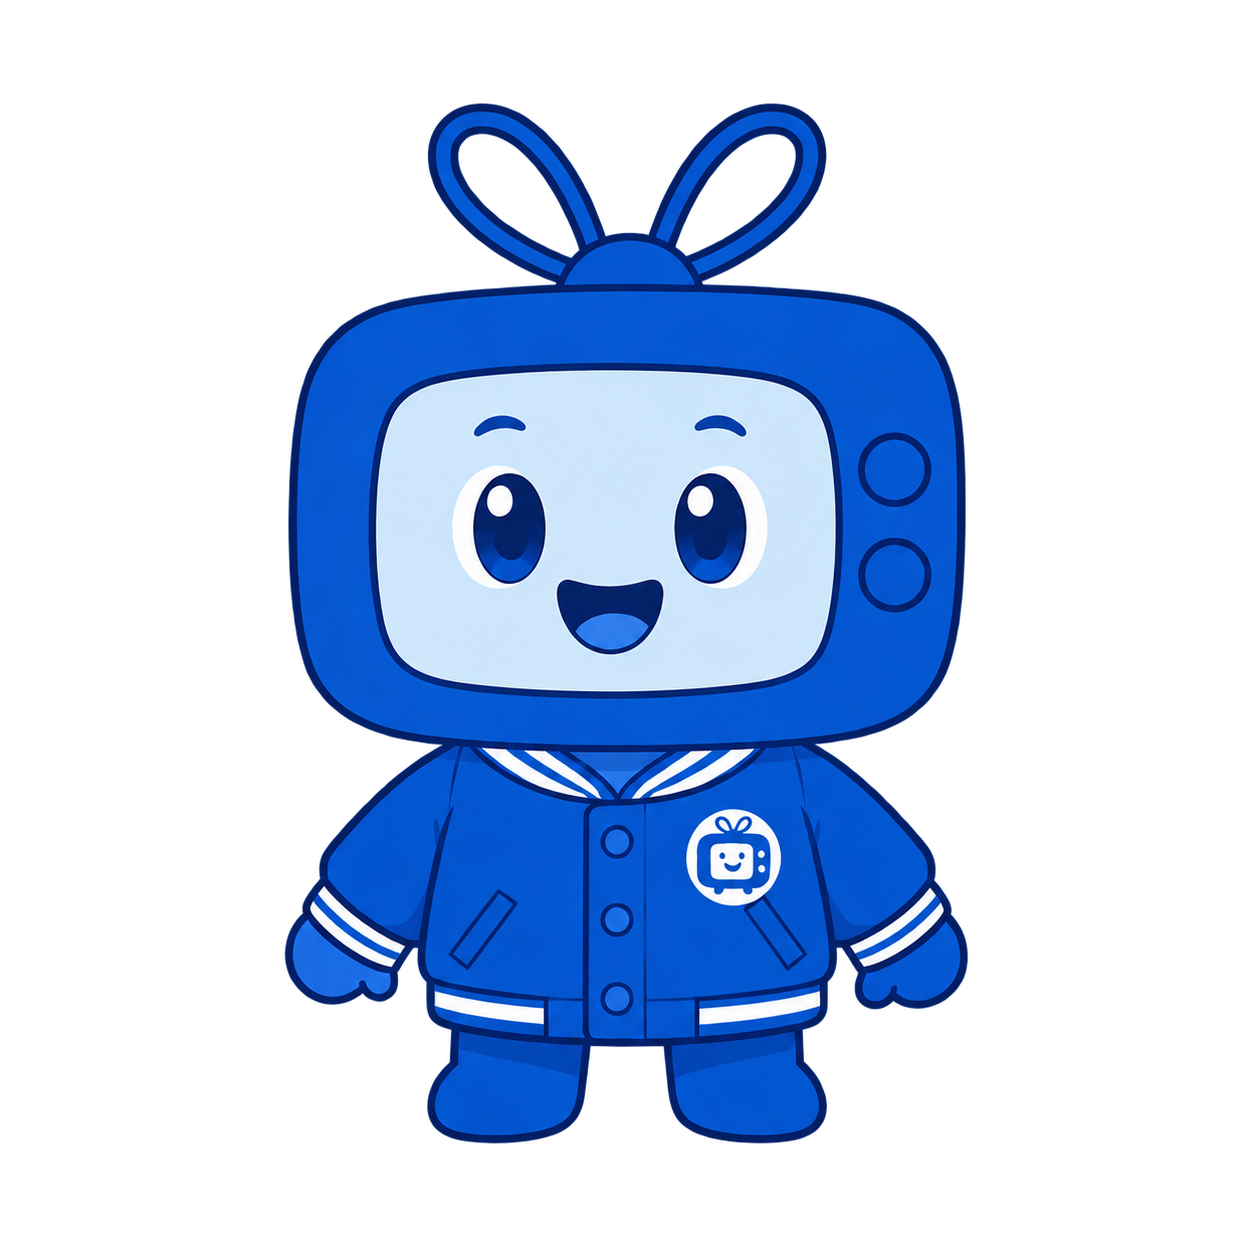
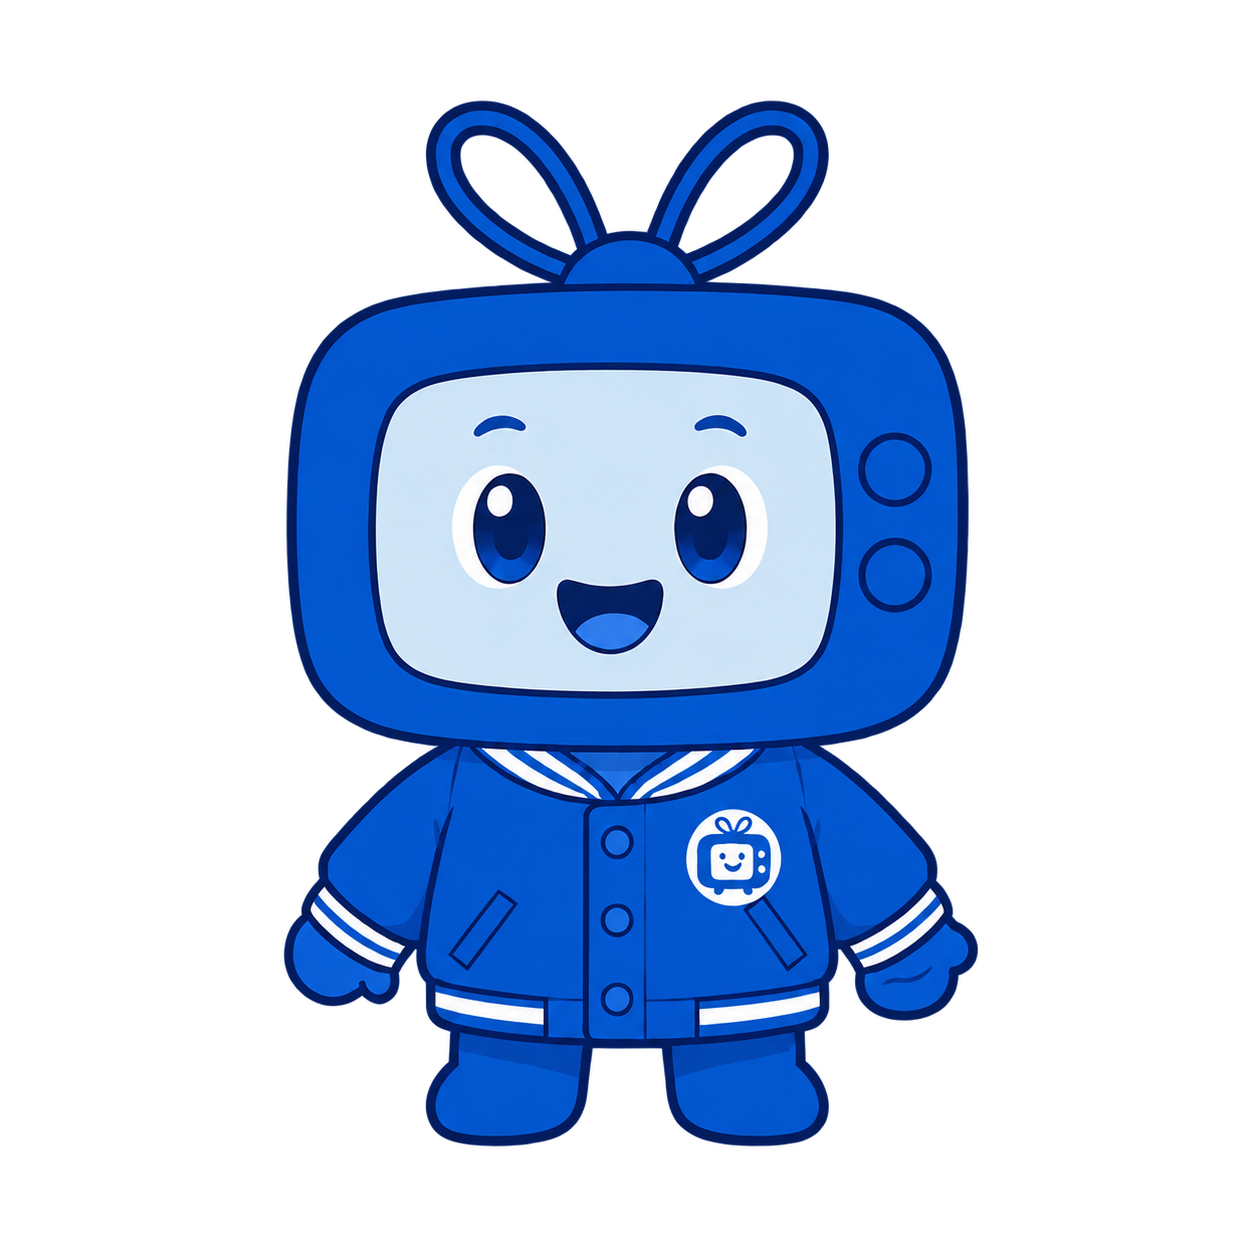
Correct palm-facing hand orientation

diff --git a/src/frontend/app.js b/src/frontend/app.js
@@ -19,7 +19,7 @@ const THINKING_MESSAGE_LABEL = "コモが考えてるよ";
 const CONNECTION_ERROR_MESSAGE =
   "ごめん、今ちょっと通信が迷子みたい。バックエンドが起動しているか確認してね。";
 const FEEDBACK_RESPONSE_TYPES = new Set(["knowledge", "unknown", "clarify"]);
-const AVATAR_ASSET_URL = "./assets/avatar/komo/komo-puppet.png";
+const AVATAR_ASSET_URL = "./assets/avatar/komo/komo-puppet.png?v=20260916-hand-02";
 const AVATAR_FACE_ASSET_URL = "./assets/avatar/komo/komo-face-blank.png";
 const AVATAR_BADGE_ASSET_URL = "./assets/avatar/komo/chubu-support-badge.png";
 const AVATAR_EMOTIONS = new Set([
